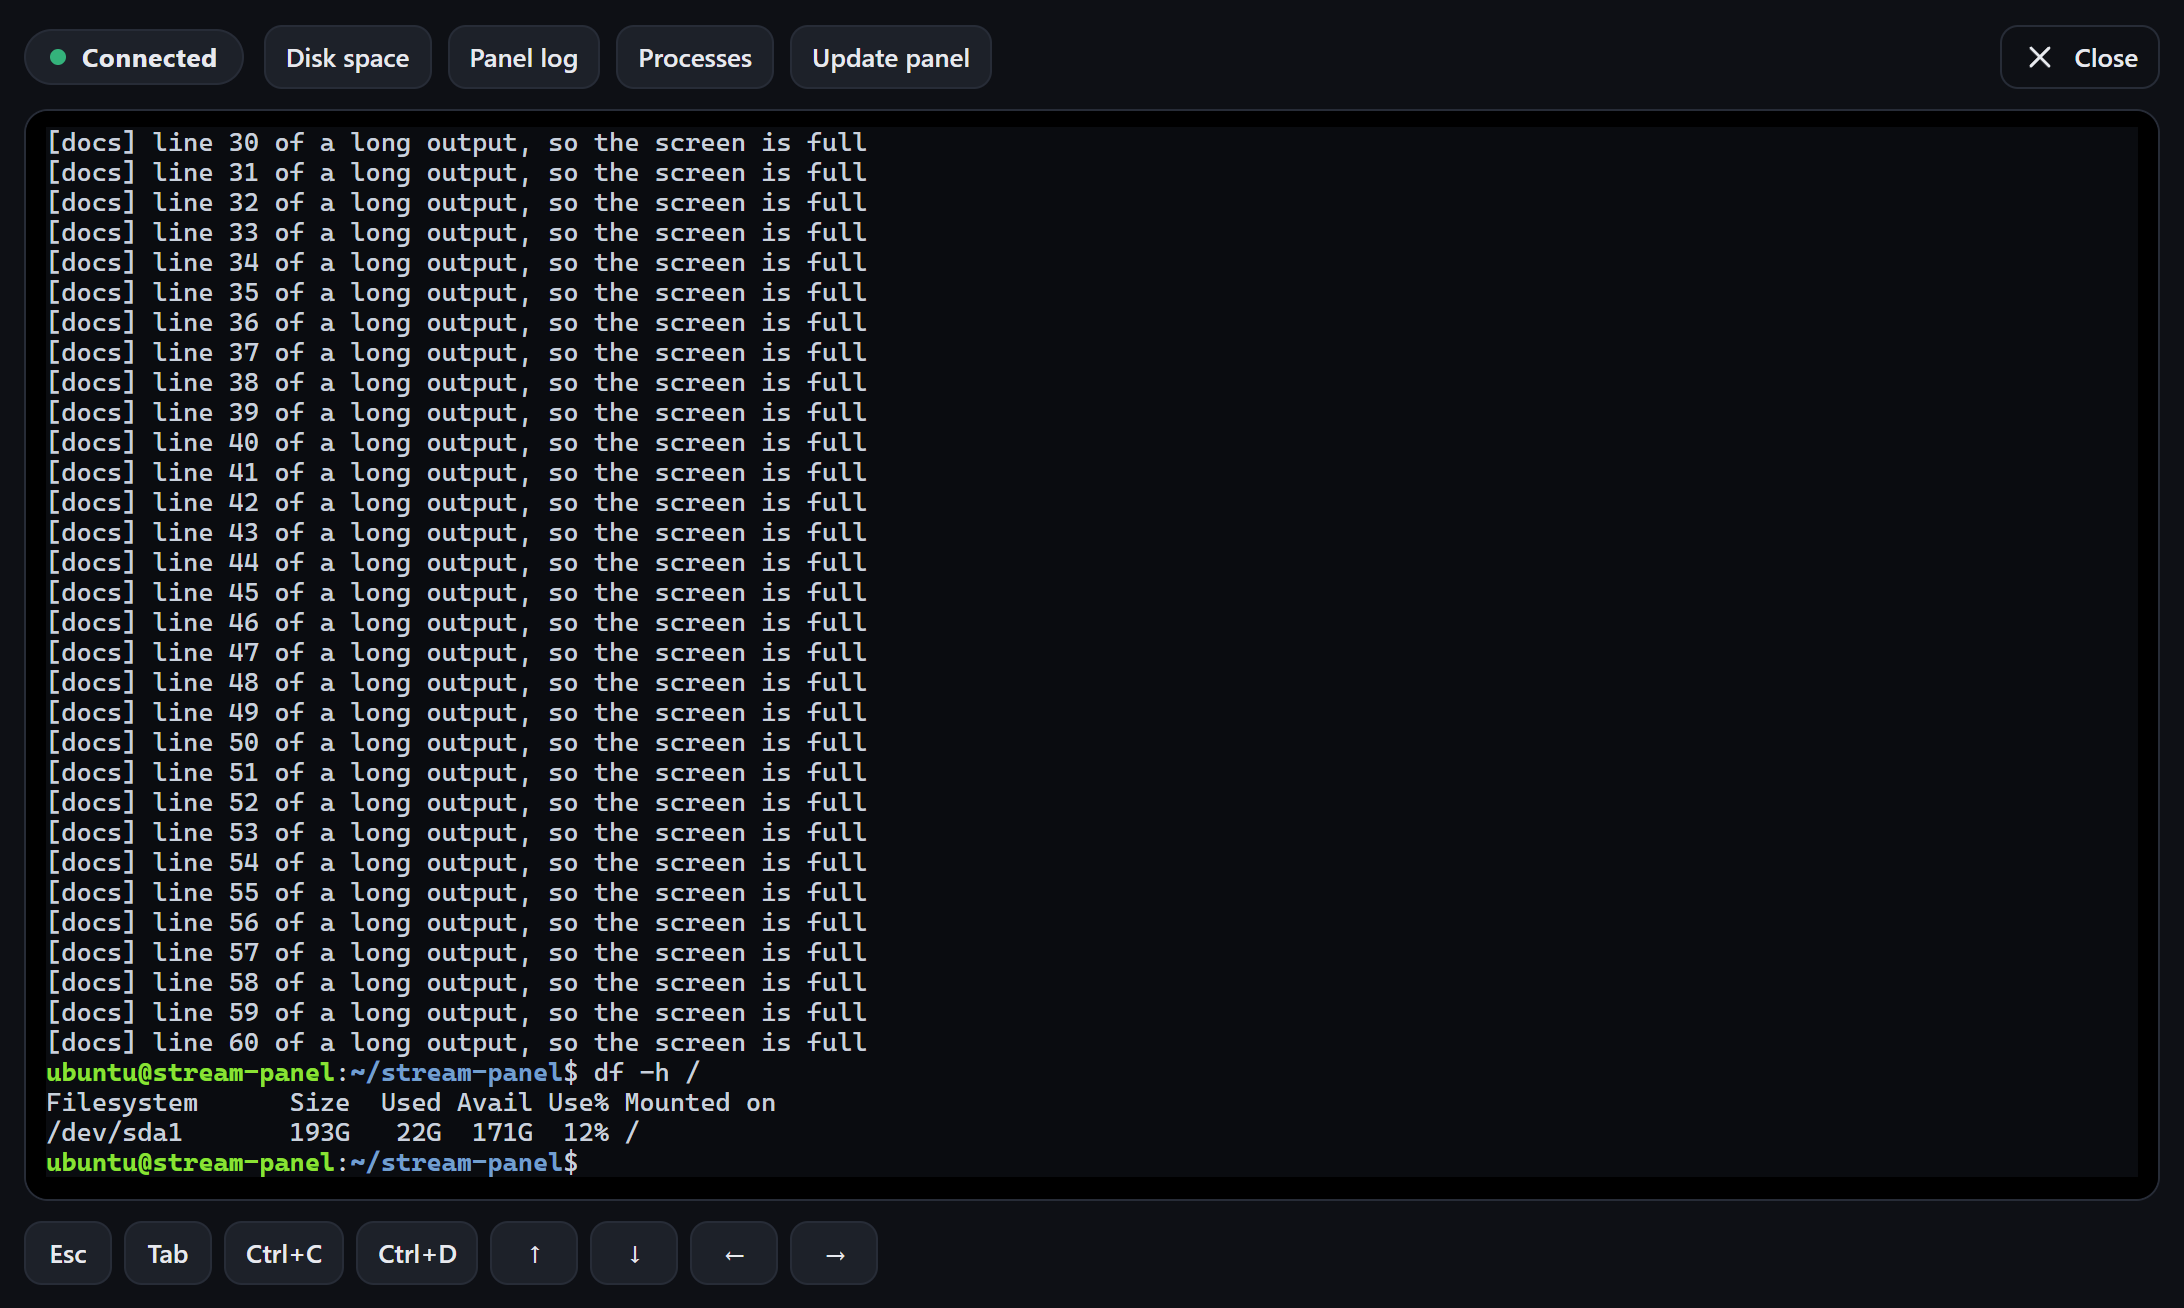
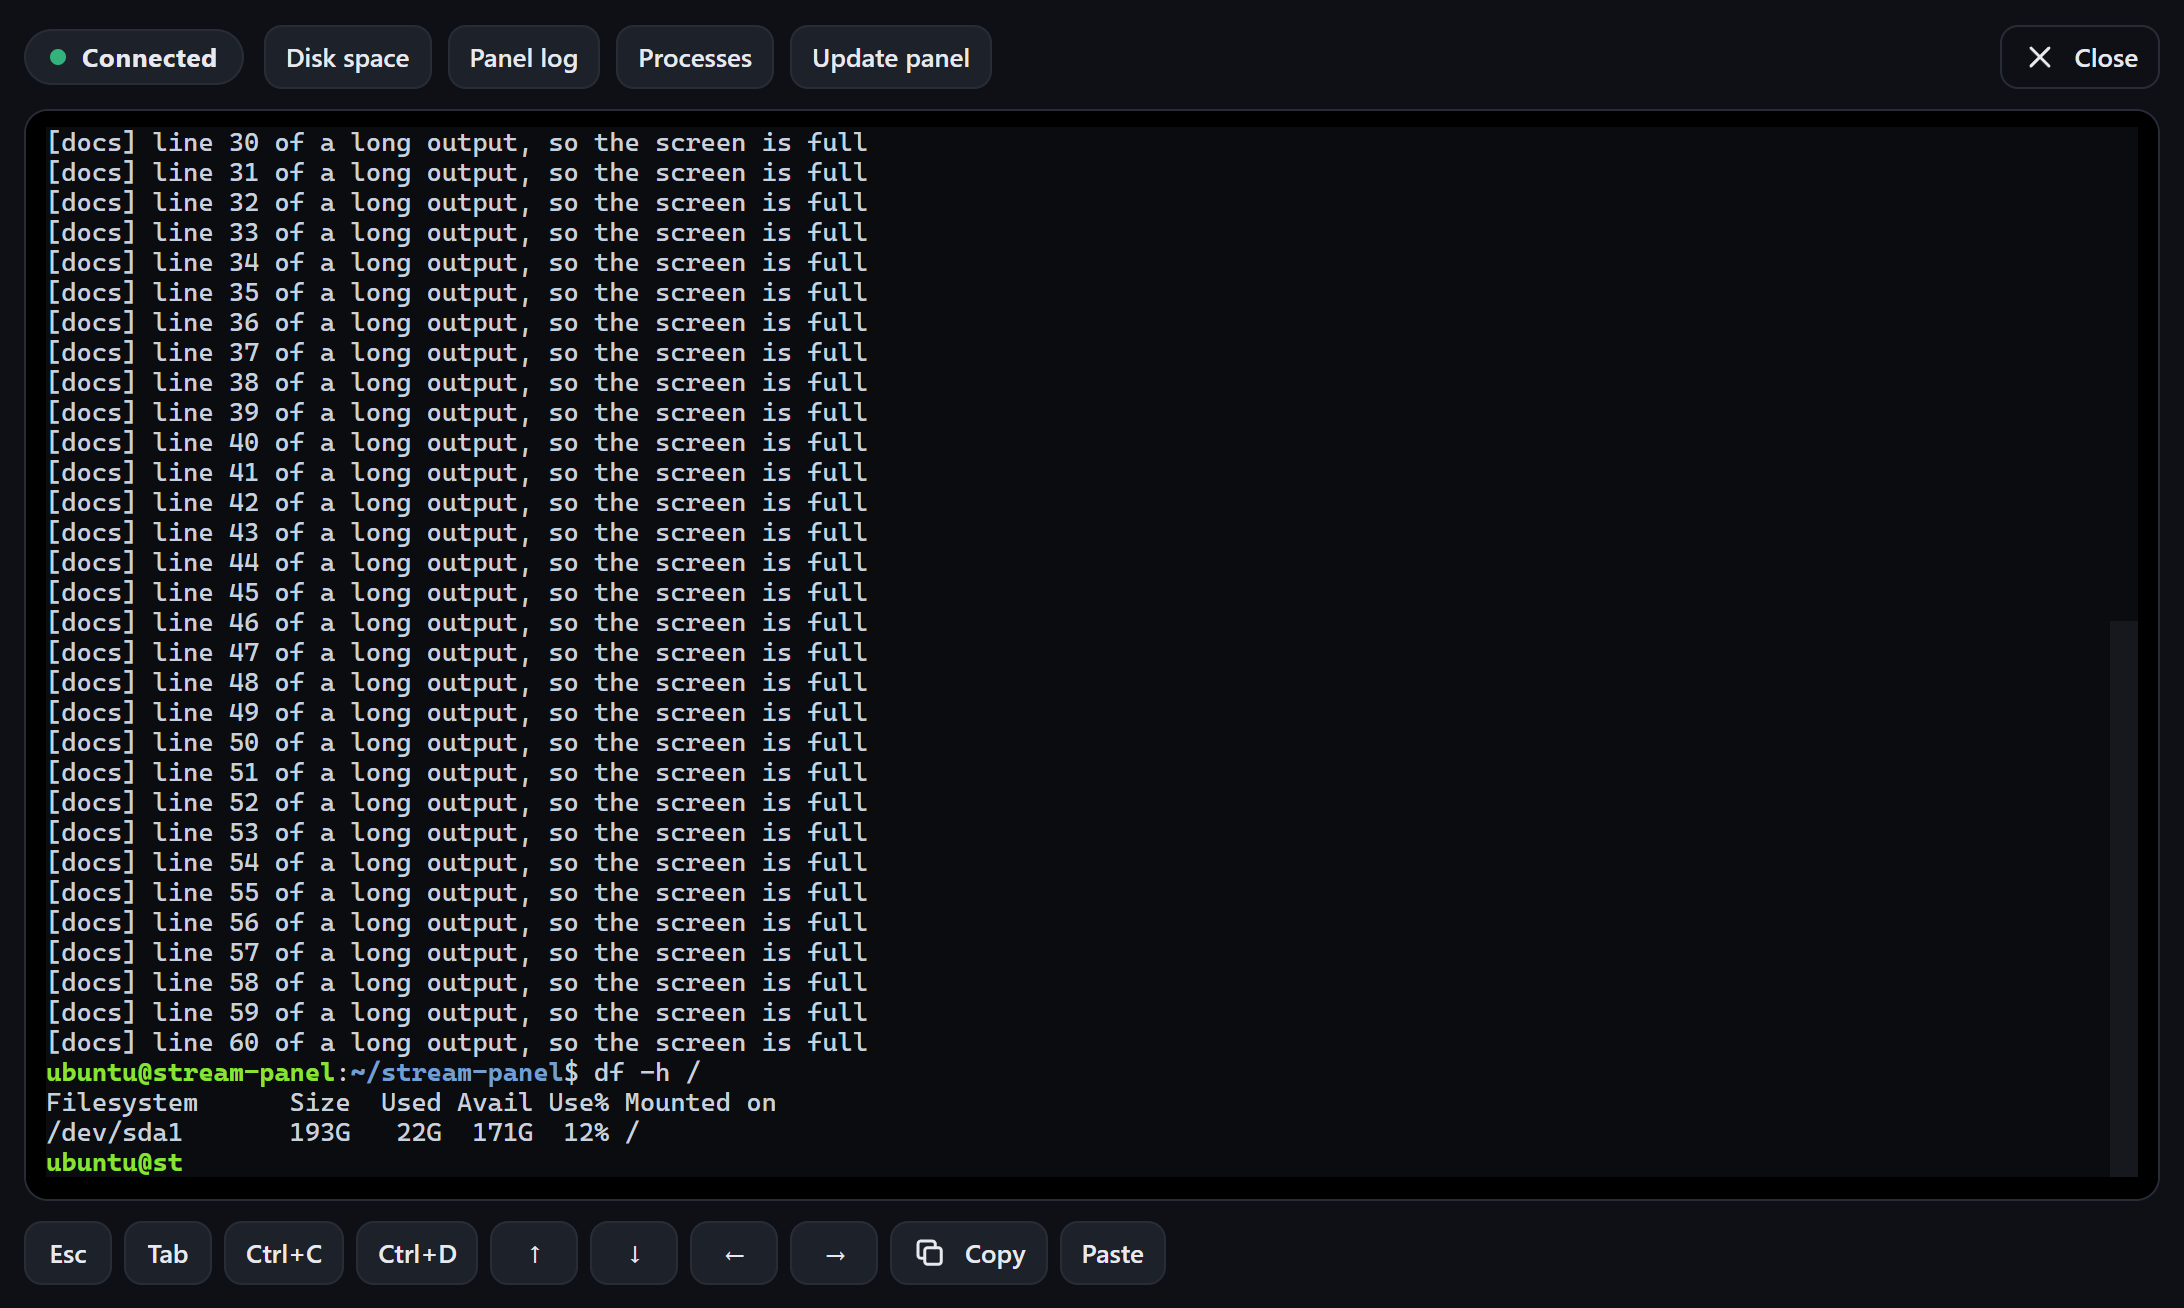
Terminal: copy and paste like Windows Terminal
Ctrl+Shift+C (the browser's inspect shortcut otherwise) copies the
selection, and so does Ctrl+C while text is selected; with nothing selected
Ctrl+C still stops the running command. Ctrl+V and Ctrl+Shift+V paste
without sending a stray ^V. Copy and Paste buttons for phones (Copy with
nothing selected copies the whole screen).

Changed region(s): [[0.0934, 0.1223, 0.4048, 0.9174], [0.4048, 0.948, 0.5293, 0.9786], [0.3736, 0.7645, 0.4048, 0.7951]]

diff --git a/public/app.js b/public/app.js
@@ -1312,6 +1312,23 @@ async function openTerminal(ticket) {
     $('#term-close span').textContent = 'Back';
     x.write('\r\n\x1b[90m[session closed]\x1b[0m\r\n');
   };
+  // Copy and paste like Windows Terminal. Ctrl+Shift+C (the browser's own
+  // "inspect" shortcut otherwise) or Ctrl+C with text selected copies; Ctrl+C
+  // with nothing selected still stops the running command. Ctrl+V and
+  // Ctrl+Shift+V paste: the browser does it and the terminal receives it.
+  x.attachCustomKeyEventHandler((e) => {
+    if (!e.ctrlKey || e.altKey || e.metaKey) return true;
+    const key = e.key.toLowerCase();
+    if (key === 'c' && (e.shiftKey || x.hasSelection())) {
+      if (e.type === 'keydown') {
+        e.preventDefault();
+        if (x.hasSelection()) copyText(x.getSelection());
+      }
+      return false;
+    }
+    if (key === 'v') return false; // not ^V: let the browser's paste happen
+    return true;
+  });
   x.onData((d) => termSend({ t: 'd', v: d }));
   x.onResize(({ cols, rows }) => termSend({ t: 'r', c: cols, r: rows }));
   term.watch = new ResizeObserver(() => {
@@ -1333,6 +1350,44 @@ function closeTerminal() {
 }
 
 $('#term-close').addEventListener('click', closeTerminal);
+
+// The clipboard API needs HTTPS or localhost (the panel always is); the old
+// way is the fallback.
+async function copyText(text) {
+  try {
+    await navigator.clipboard.writeText(text);
+  } catch {
+    const area = h('textarea', { style: 'position:fixed;opacity:0' });
+    area.value = text;
+    document.body.append(area);
+    area.select();
+    const ok = document.execCommand('copy');
+    area.remove();
+    if (!ok) return toast('The browser did not allow copying. Select the text and use the right-click menu.', 'bad');
+  }
+  toast('Copied');
+}
+
+// Copy button: the selection, or the whole visible screen if nothing is
+// selected (selecting is fiddly on a phone).
+function terminalScreenText() {
+  const buf = term.x.buffer.active;
+  const lines = [];
+  for (let i = buf.viewportY; i < buf.viewportY + term.x.rows; i++) lines.push(buf.getLine(i)?.translateToString(true) ?? '');
+  return lines.join('\n').replace(/\s+$/, '');
+}
+$('#term-copy').addEventListener('click', () => {
+  if (term.x) copyText(term.x.hasSelection() ? term.x.getSelection() : terminalScreenText());
+});
+$('#term-paste').addEventListener('click', async () => {
+  try {
+    const text = await navigator.clipboard.readText();
+    if (text) term.x?.paste(text);
+  } catch {
+    toast('The browser did not allow reading the clipboard. Press Ctrl+V in the terminal instead.', 'bad');
+  }
+  term.x?.focus();
+});
 
 const KEYS = { esc: '\x1b', tab: '\t', 'ctrl-c': '\x03', 'ctrl-d': '\x04', up: '\x1b[A', down: '\x1b[B', right: '\x1b[C', left: '\x1b[D' };
 for (const b of $$('[data-key]')) {

diff --git a/public/index.html b/public/index.html
@@ -427,6 +427,8 @@
           <button type="button" class="btn btn-small" data-key="down" aria-label="Down">&darr;</button>
           <button type="button" class="btn btn-small" data-key="left" aria-label="Left">&larr;</button>
           <button type="button" class="btn btn-small" data-key="right" aria-label="Right">&rarr;</button>
+          <button type="button" class="btn btn-small" id="term-copy" title="Copies the selected text, or the whole screen if nothing is selected"><svg class="i"><use href="#i-copy"/></svg>Copy</button>
+          <button type="button" class="btn btn-small" id="term-paste">Paste</button>
         </div>
       </div>
     </section>

diff --git a/README.md b/README.md
@@ -255,6 +255,10 @@ someone who learns the panel password still can't open it.
 - The buttons along the top run common commands (**Disk space**, **Panel
   log**, **Processes**) or type one for you to confirm with Enter (**Update
   panel**). The keys along the bottom are the ones phone keyboards lack.
+- **Copy:** select text, then **Ctrl+Shift+C** (or Ctrl+C while text is
+  selected; with nothing selected Ctrl+C stops the running command).
+  **Paste:** Ctrl+V. On a phone use the **Copy** and **Paste** buttons
+  (Copy with nothing selected copies the whole screen).
 - A session closes after 15 minutes without typing, or when you close it.
   Closing it ends everything started in it (use `tmux` for long jobs).
 - Discord is told every time the terminal opens and whenever its password is

diff --git a/deploy/SETUP-GUIDE.md b/deploy/SETUP-GUIDE.md
@@ -329,6 +329,10 @@ login, `sudo` included, so it has its own password:
 2. **Open terminal** asks for the terminal password every time.
 
 Good to know:
+- **Copy and paste:** select text and press **Ctrl+Shift+C** (Ctrl+C also
+  copies while text is selected, and stops the running command when nothing
+  is); paste with **Ctrl+V**. The **Copy** and **Paste** buttons do the same
+  on a phone.
 - **Update panel** types `bash deploy/update.sh` for you; press Enter to run
   it. The panel restarts at the end, which closes the terminal: open it again
   after a few seconds.
